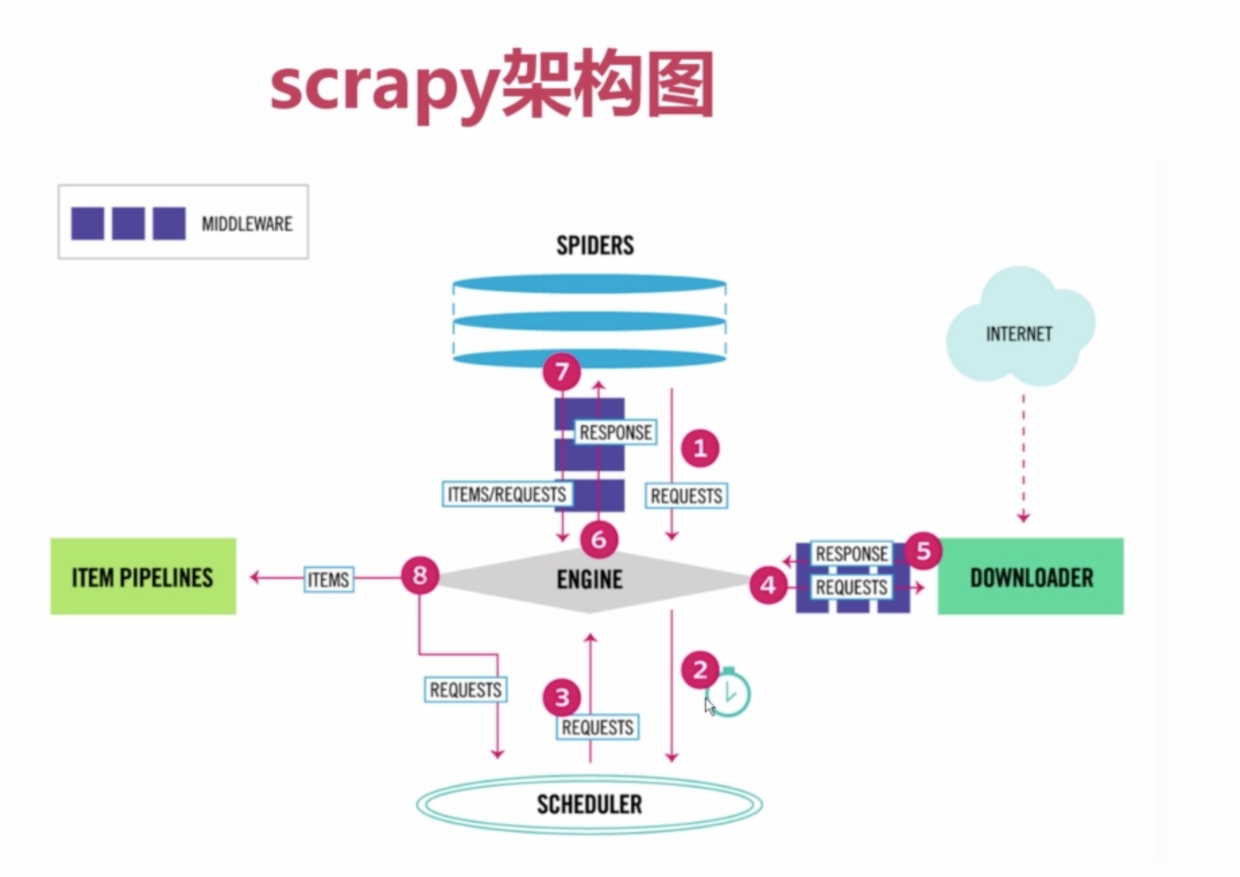
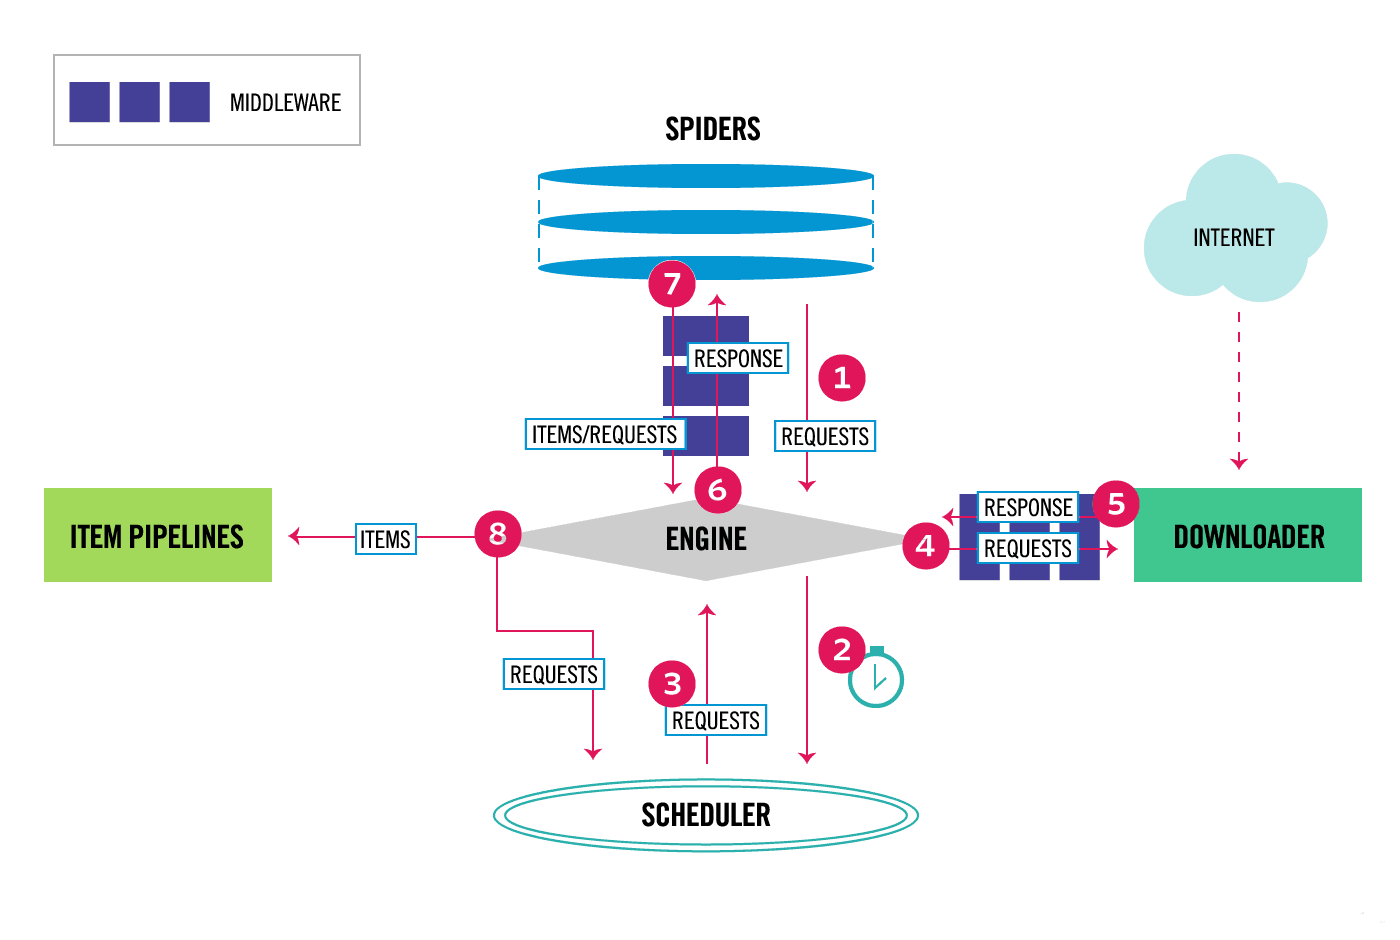
modified scrapy

diff --git a/source/_posts/scrapy.md b/source/_posts/scrapy.md
@@ -4,59 +4,58 @@ date: 2019-10-16 18:13:03
 tags:
 categories: python
 ---
-学习scrapy之前，你应该对python有所了解。对于了解Scrapy爬虫框架，可以阅读这部分文章
+Scrapy是用纯Python实现一个为了爬取网站数据、提取结构性数据而编写的应用框架，用途非常广泛。学习scrapy之前，你应该掌握python基本语法糖。对于了解Scrapy，可以阅读这部分文章
 [Scrapy入门教程](https://scrapy-chs.readthedocs.io/zh_CN/latest/intro/tutorial.html)
 [如何入门 Python 爬虫](https://www.zhihu.com/question/20899988)
 
-
-#### 整体架构
+## 一、了解scrapy运作方式
+#### scrapy流程图
 ![1.png](scrapy/1.png)
 
-##### 1.Scrapy数据流是由执行的核心引擎(engine)控制，流程是这样的：
+#### scrapy组件
+> Scrapy Engine(引擎): 负责Spider、ItemPipeline、Downloader、Scheduler中间的通讯，信号、数据传递等。
 
-##### 2.引擎打开一个域名，蜘蛛处理这个域名，并让蜘蛛获取第一个爬取的URL。
+> Scheduler(调度器): 它负责接受引擎发送过来的Request请求，并按照一定的方式进行整理排列，入队，当引擎需要时，交还给引擎。
 
-##### 3.引擎从蜘蛛那获取第一个需要爬取的URL，然后作为请求在调度中进行调度。
+> Downloader（下载器）：负责下载Scrapy Engine(引擎)发送的所有Requests请求，并将其获取到的Responses交还给Scrapy Engine(引擎)，由引擎交给Spider来处理，
 
-##### 4.引擎从调度那获取接下来进行爬取的页面。
+> Spider（爬虫）：它负责处理所有Responses,从中分析提取数据，获取Item字段需要的数据，并将需要跟进的URL提交给引擎，再次进入Scheduler(调度器)，
 
-##### 5.调度将下一个爬取的URL返回给引擎，引擎将他们通过下载中间件发送到下载器。
+> Item Pipeline(管道)：它负责处理Spider中获取到的Item，并进行进行后期处理（详细分析、过滤、存储等）的地方.
 
-##### 6.当网页被下载器下载完成以后，响应内容通过下载中间件被发送到引擎。
+> Downloader Middlewares（下载中间件）：你可以当作是一个可以自定义扩展下载功能的组件。
 
-##### 7.引擎收到下载器的响应并将它通过蜘蛛中间件发送到蜘蛛进行处理。
+> Spider Middlewares（Spider中间件）：你可以理解为是一个可以自定扩展和操作引擎和Spider中间通信的功能组件（比如进入Spider的Responses;和从Spider出去的Requests）
 
-##### 8.蜘蛛处理响应并返回爬取到的item，然后给引擎发送新的请求。
+#### scrapy数据流(Data flow)
 
-##### 9.引擎发送处理后的item到项目管道，然后把处理结果返回给调度器，调度器计划处理下一个请求抓取。
+* 1.引擎打开一个网站(open a domain)，找到处理该网站的Spider并向该spider请求第一个要爬取的URL(s)。
+* 2.引擎从Spider中获取到第一个要爬取的URL并在调度器(Scheduler)以Request调度。
+* 3.引擎向调度器请求下一个要爬取的URL。
+* 4.调度器返回下一个要爬取的URL给引擎，引擎将URL通过下载中间件(请求(request)方向)转发给下载器(Downloader)。
+* 5.一旦页面下载完毕，下载器生成一个该页面的Response，并将其通过下载中间件(返回(response)方向)发送给引擎。
+* 6.引擎从下载器中接收到Response并通过Spider中间件(输入方向)发送给Spider处理。
+* 7.Spider处理Response并返回爬取到的Item及(跟进的)新的Request给引擎。
+* 8.引擎将(Spider返回的)爬取到的Item给Item Pipeline，将(Spider返回的)Request给调度器。
+* 9.(从第二步)重复直到调度器中没有更多地request，引擎关闭该网站。
+引擎获取起始url并发起请求,将获取的响应内容返回给spider,
+在spider中进行数据的提取和下一个url的链接,
+数据交给item和pipeline进行处理,
+url继续发起请求,
 
-##### 10.系统重复2-9的操作，直到调度中没有请求，然后断开引擎与域之间的联系。
+编写spider
+制作 Scrapy 爬虫 一共需要4步：
 
+新建项目 (scrapy startproject xxx)：新建一个新的爬虫项目
+明确目标 （编写items.py）：明确你想要抓取的目标
+制作爬虫 （spiders/xxspider.py）：制作爬虫开始爬取网页
+存储内容 （pipelines.py）：设计管道存储爬取内容
 
-## 一、新建scrapy爬虫项目
-> scrapy startproject tutorial
-
-生成的目录如下
-![2.png](scrapy/2.png)
-
-#### tutorial/items.py【项目】
-保存爬取到的数据的容器；其使用方法和python字典类似， 并且提供了额外保护机制来避免拼写错误导致的未定义字段错误。
-类似在ORM中做的一样，可以通过创建一个 scrapy.Item 类， 并且定义类型为 scrapy.Field 的类属性来定义一个Item。
-
-#### tutorial/pipelines.py【管道】
-当页面被蜘蛛解析后，将被发送到项目管道，用户可以通过管道清洗数据或者插入到数据库中。
-
-#### tutorial/settings.py【设置】
-settings.py是Scrapy中比较重要的配置文件，里面可以设置的内容非常之多。比如在pipelines.py中编写了把数据保存到mysql数据的class，那么怎么样才能使得这个class执行呢？就可以在settings设置。还有包括像log日志，log路径等设置。
-
-#### tutorial/spider
-该目录下放置爬虫代码
-
-#### tutorial/middlewares.py【中间件】
-这块在很后面才会用到，先不介绍。
 
 ## 二、编写你的第一个爬虫
 以抓取某求职网站的php职位为例
+
+>scrapy startproject goodjobs
 
 ##### 1.items.py里定义数据容器：
 ```python
@@ -92,25 +91,20 @@ class Goodjobs(scrapy.spiders.Spider):
 
     def parse(self, response):
         for sel in response.xpath('//div[@class="SearchJobList"]'):
-	    #这里用的是xpath定位节点，也可以用css()去做。extract是返回数组list
+            #这里用的是xpath定位节点，也可以用css()去做。extract是返回数组list
             jobname = sel.xpath('ul//a/@title').extract()
 	    #调用数据容器，将渠道的jobname赋值给item。
             item = GoodjobsItem() 
             item['jobname'] = jobname
-	    #生成器返回item
+	    #yield生成器返回item迭代值，进行下一步next()操作
             yield item
 
         next_page_url = self.base_url + response.xpath('//div[@class="p_in"]//a[contains(text(),"下一页")]/@href').extract()[0]
 	#返回一个迭代器
         yield scrapy.Request(next_page_url,callback=self.parse)
 ```
-这里不容易理解的地方就是“yield”，我们通过 yield 来发起一个请求，并通过 callback 参数为这个请求添加回调函数，在请求完成之后会将响应作为参数传递给回调函数。
 
-scrapy框架会根据 yield 返回的实例类型来执行不同的操作，如果是 scrapy.Request 对象，scrapy框架会去获得该对象指向的链接并在请求完成后调用该对象的回调函数。
-
-如果是 scrapy.Item 对象，scrapy框架会将这个对象传递给 pipelines.py做进一步处理。
-
-##### 3.pipelines.py 将数据从管道导入到数据库
+##### 3.pipelines.py 管道保存数据
 ```python
 # -*- coding: utf-8 -*-
 
@@ -146,16 +140,23 @@ class GoodjobsPipeline(object):
         #关闭数据库连接
         self.connection.close()
 ```
-
-### 三、执行爬虫
 > scrapy crawl goodjobs
 
 [Demo For Goodjobs Spider](https://github.com/zyanfei/goodjobs_spider)
 
-#### 其他要注意的：
-Xpath:
-Xpath是Selectors选择器的一种，可以很方便的定位到你想要的元素。
-XPath的常用匹配规则，例如 / 代表选取直接子节点，// 代表选择所有子孙节点，. 代表选取当前节点，.. 代表选取当前节点的父节点，@ 则是加了属性的限定，选取匹配属性的特定节点。
+## 三、最后认识下Selectors选择器
+[文档看这里](https://scrapy-chs.readthedocs.io/zh_CN/1.0/topics/selectors.html)
+Scrapy Selectors内置XPath和 CSS Selector表达式机制
+
+Selector有四个基本的方法:
+
+xpath(): 传入xpath表达式，返回该表达式所对应的所有节点的selector list列表
+extract(): 序列化该节点为Unicode字符串并返回list
+css(): 传入CSS表达式，返回该表达式所对应的所有节点的selector list列表，语法同 BeautifulSoup4
+re(): 根据传入的正则表达式对数据进行提取，返回Unicode字符串list列表
+通过shell可以很方便的提取出需要的数据
+
+
 
 
 
